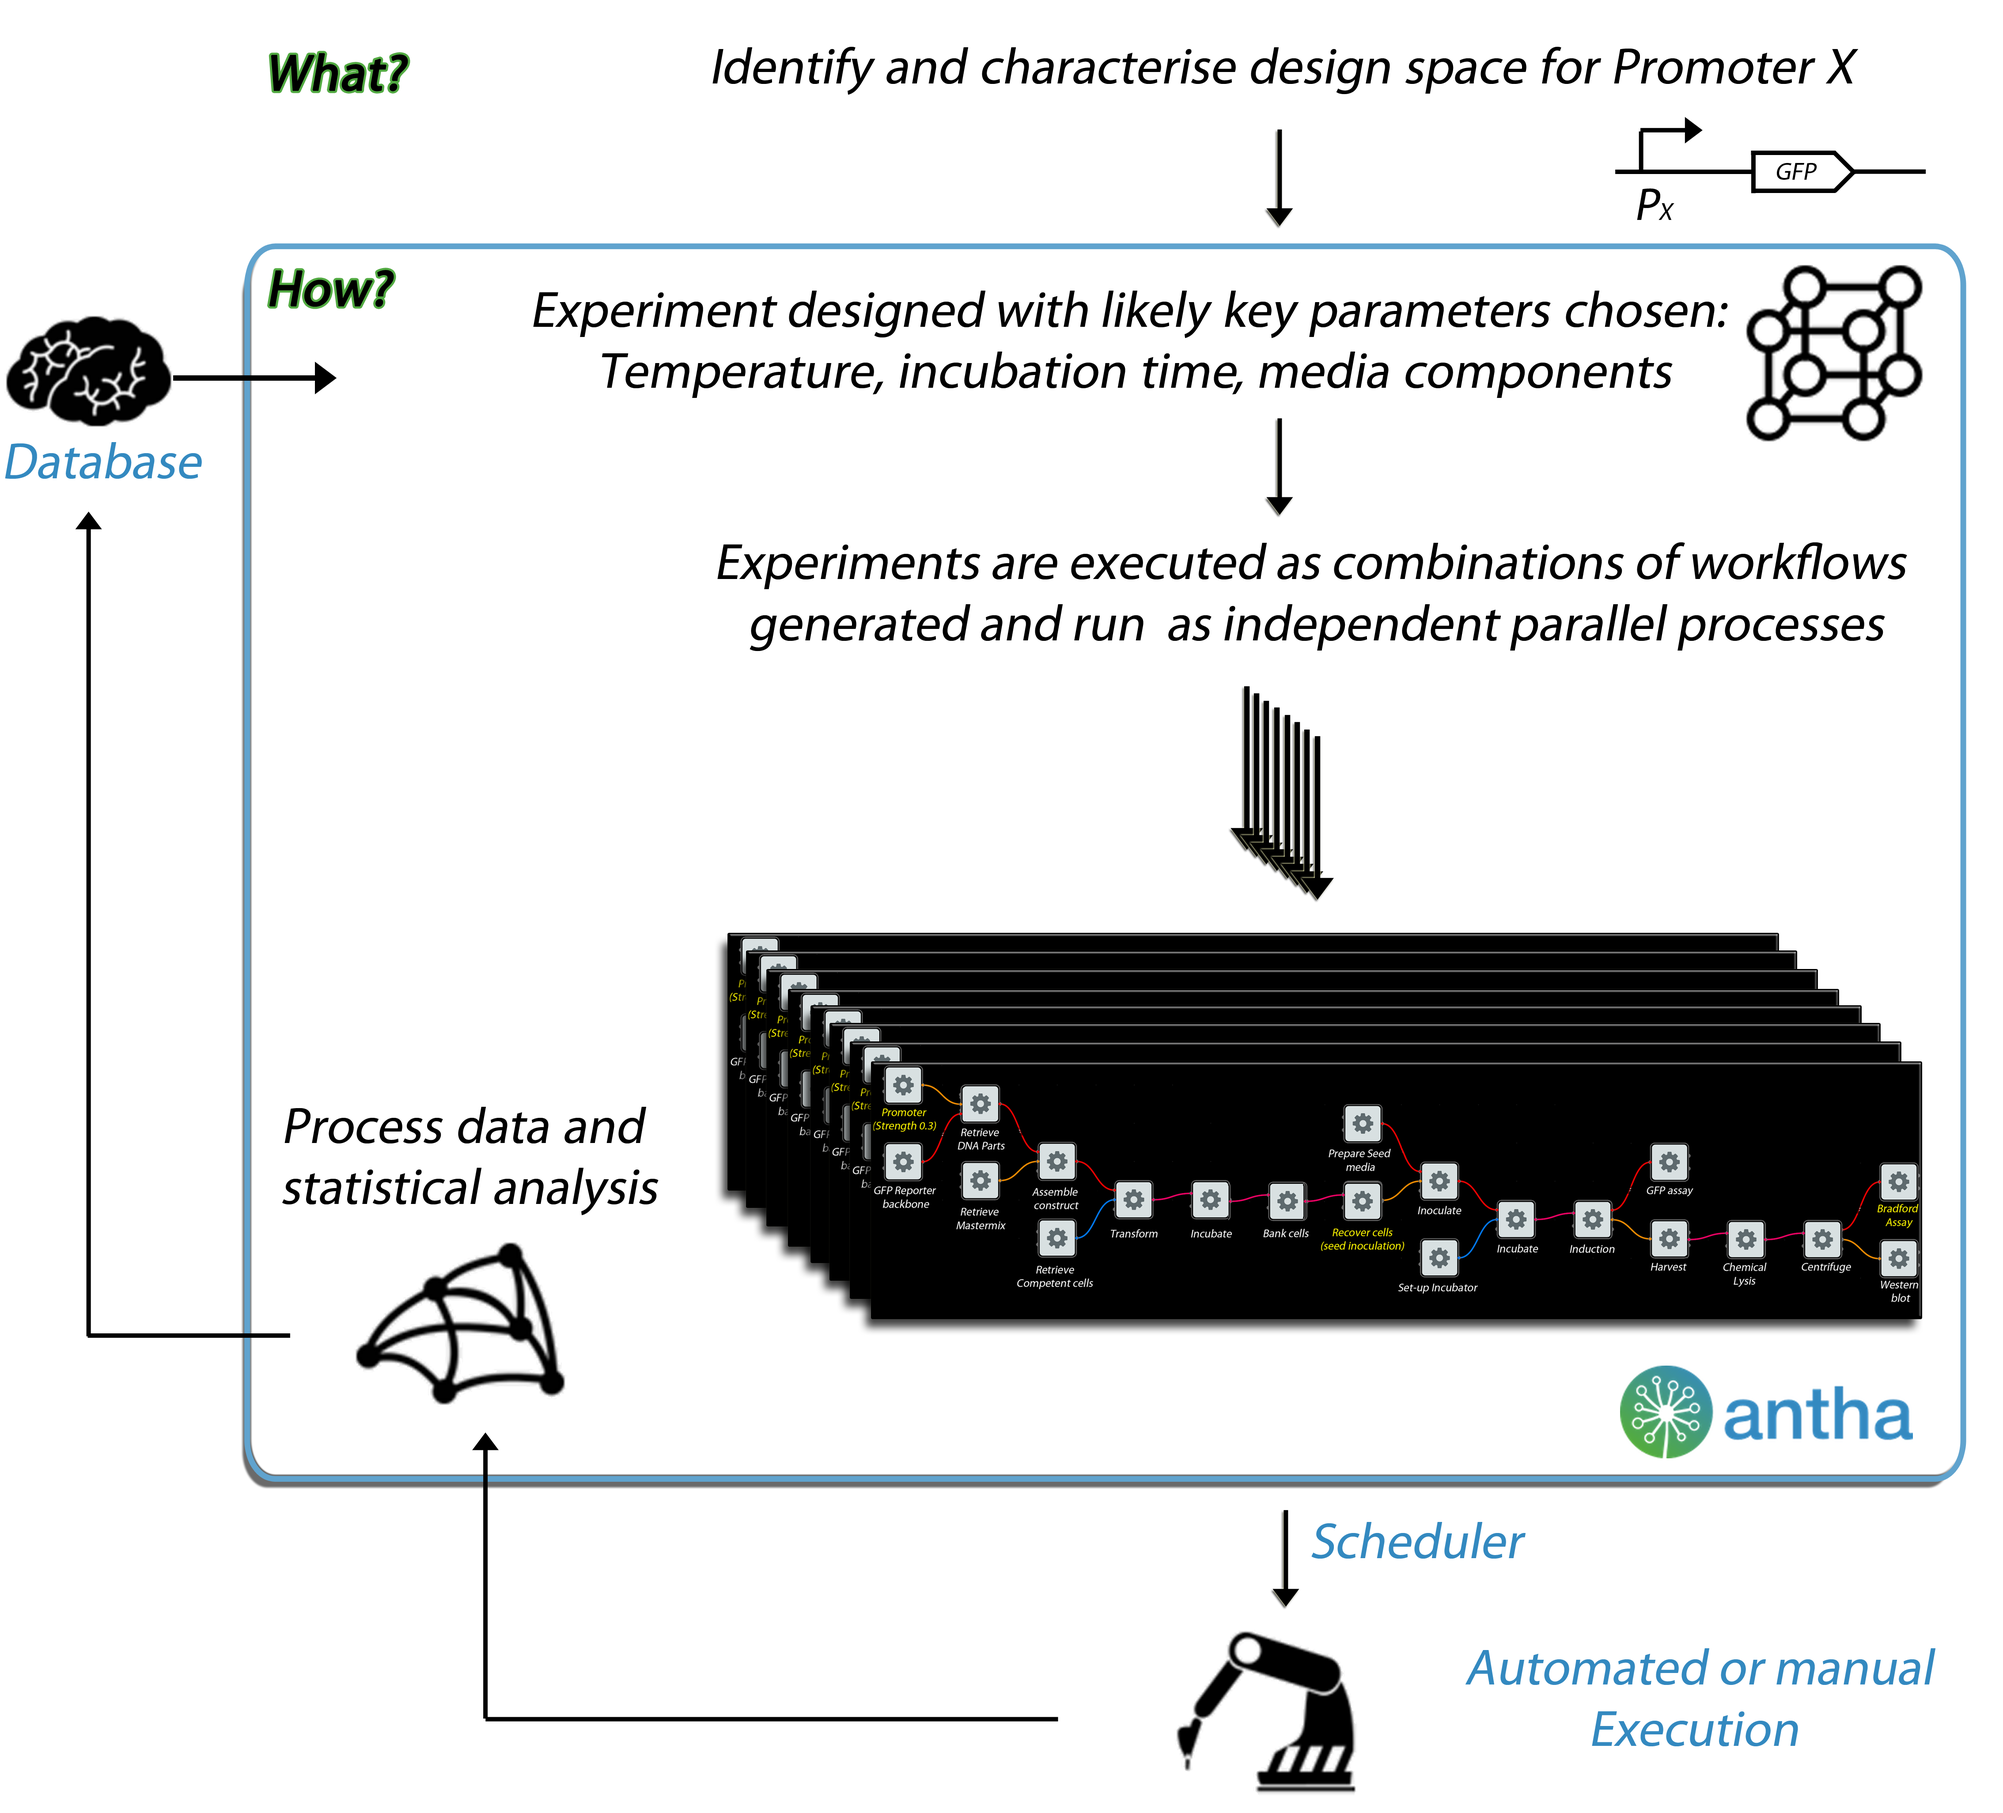
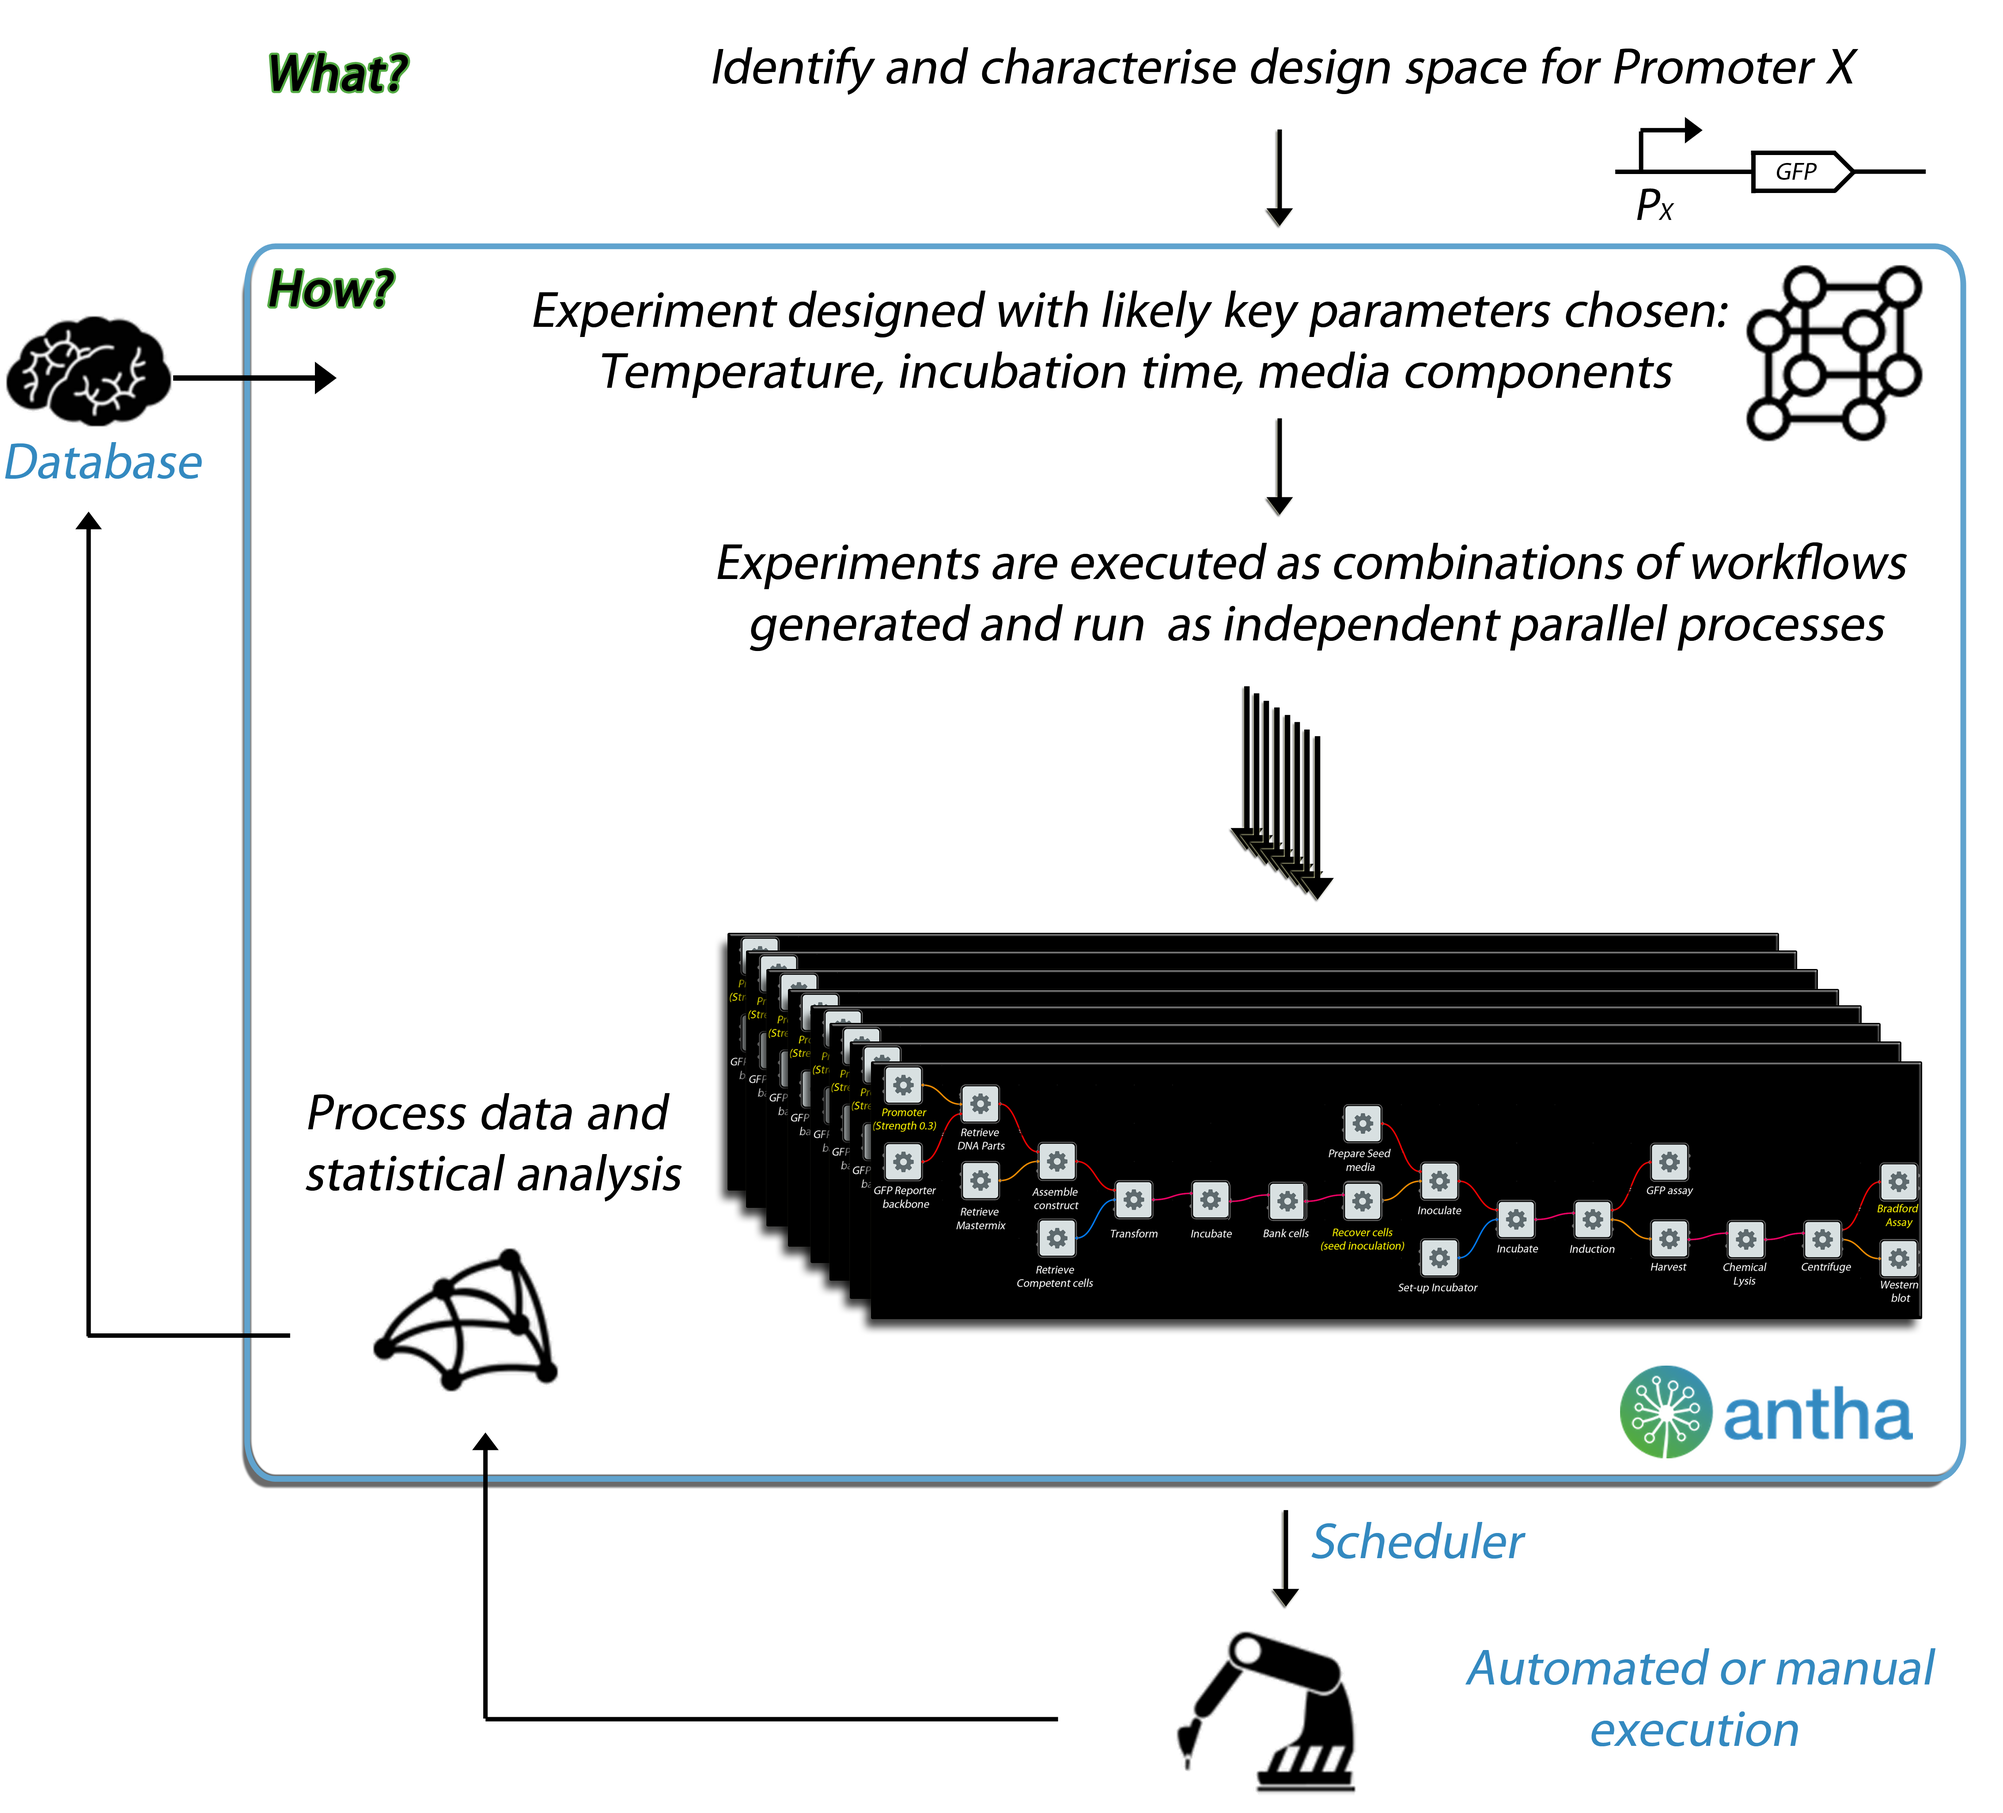
Minor wording updates

Changed region(s): [[0.1555, 0.5924, 0.342, 0.7795], [0.7773, 0.9354, 0.8084, 0.9666]]

diff --git a/docs/concepts/characterization.md b/docs/concepts/characterization.md
@@ -26,7 +26,7 @@ In recent years, Validation in Pharma has moved from a model of “find a way th
 
 ### Definition 
 
-“QbD became the answer to assisting both the industry and FDA to move toward a more scientific, risk-based, holistic and proactive approach to pharmaceutical development. The concept promotes industry's understanding of the product and manufacturing process starting with product development, basically building quality in, not testing it. Under the concept of QbD, when designing and developing a product, a company needs to define desired product performance and identify CQAs. On the basis of this information, the company then designs the product formulation and process to meet those product attributes. This leads to understanding the impact of raw material attributes and process parameters on the CQAs and identification and control of sources of variability. As a result of all this knowledge, a company can continually monitor and update its manufacturing process to assure consistent product quality. This systematic approach to product development and manufacturing varies a great deal from the traditional approach, which was extremely empirical.” ([Quality by design for biopharmaceuticals](http://www.nature.com/nbt/journal/v27/n1/full/nbt0109-26.html), Anurag S Rathore & Helen Winkle)
+“Quality by design (QbD) became the answer to assisting both the industry and Food and drugs administration (FDA) to move toward a more scientific, risk-based, holistic and proactive approach to pharmaceutical development. The concept promotes industry's understanding of the product and manufacturing process starting with product development, basically building quality in, not testing it. Under the concept of QbD, when designing and developing a product, a company needs to define desired product performance and identify critical quality attributes (CQAs). On the basis of this information, the company then designs the product formulation and process to meet those product attributes. This leads to understanding the impact of raw material attributes and process parameters on the CQAs and identification and control of sources of variability. As a result of all this knowledge, a company can continually monitor and update its manufacturing process to assure consistent product quality. This systematic approach to product development and manufacturing varies a great deal from the traditional approach, which was extremely empirical.” ([Quality by design for biopharmaceuticals](http://www.nature.com/nbt/journal/v27/n1/full/nbt0109-26.html), Anurag S Rathore & Helen Winkle)
 
 ### QbD implementaion
 

diff --git a/resources/faq.md b/resources/faq.md
@@ -14,16 +14,13 @@ title: FAQ
 
 ## {{site.project_title}}
 
-### Why should I care about this project? {#why}
+### Why is this project important? {#why}
 
 {{site.project_title}} is the first high level language designed to enable robust, reproducible and composible work in the biosciences. {{site.project_title}} is designed to take away much of the detail of experimental planning, allowing biologists to focus on what they want to do, not how to do it.  This allows researchers to think about the biology of their system, and successfully carry out ever more complex and illuminating experiments.
 
 ### Why do we need a high level language for doing biology? {#why}
 
 A high level language enables ease of design, better reproducibility and scalability. Lack of reproducibility is still a major barrier to progress in the biosciences (an [article](http://www.nature.com/nature/journal/v483/n7391/full/483531a.html) from Amgen reports that they could reproduce findings in only 11% of 53 published papers). 
-
-### Why is this only being done now? 
-The will to improve reproducibility is not new. In recent years efforts have been made to abstract the layers of biological complexity and to standardize by breaking down biological components into repositories of well-characterised standardized parts which can be combined to form more complex devices. The biobrick registry at iGEM is a good example of this. This is a move in the right direction but the problem is far from fully solved since biology is not that simple and often it's not possible to standardise parts.
 
 ### Why is this only being done now?
 The will to improve reproducibility is not new. In recent years efforts have been made to abstract the layers of biological complexity and to standardize by breaking down biological components into repositories of well-characterised standardized parts which can be combined to form more complex devices. The biobrick registry at iGEM is a good example of this. This is a move in the right direction but the problem is far from fully solved since biology is not that simple and often it's not straightforward standardise parts.

diff --git a/docs/intro.md b/docs/intro.md
@@ -52,7 +52,7 @@ Experiments can then be generated from bundling workflows together. Potentially 
 
 ## Quality built-in ##
 
-Antha is an end-to-end fully integrated language with quality control built in to its DNA. As well as a language for experimental design, execution and data processing, it’s a LIMs system, data-management system and QA system, yet simple and fun to use. The language is designed to effortlessly incorporate quality standards such as quality by design and GMP level quality standards without the overhead for the user. This means enhanced traceability, reproducibility and simplicity for the user.
+Antha is an end-to-end fully integrated language with quality control built in to its DNA. As well as a language for experimental design, execution and data processing, it’s a LIMs system, data-management system and QA system, yet simple and fun to use. The language is designed to support effortless incorporation of quality standards such as [quality by design](/docs/concepts/characterization.html) and GLP level quality standards without the overhead for the user. This means enhanced traceability, reproducibility and simplicity for the user.
 
 There are many factors which can affect an experiment which typically wouldn't be recorded. With the example of a simple step such as recovering a frozen cell stock and incubating there are many factors which might effect the reproducibility and quality of the procedure which could have a knock on effect in subsequent processes. Normally it would be very laborious to capture all of these variables but Antha aims to capture as many of them as possible automatically. 
 <img src="/images/Antha_seedelement_sourcesofvariability.png" alt="sources of variability" width="500" height="500">

diff --git a/docs/implement/devices.md b/docs/implement/devices.md
@@ -17,4 +17,4 @@ Laboratory automation doesn’t always go smoothly and if not designed well one 
 
 ## Sensing, barcodes and mobile device app support
 
-Typically scientific laboratory solutions are expensive but often existing apps and features of the smart phones we all have could perform tasks just as well, potentially for a fraction of the cost. Antha will support interaction with such systems to make performing the experiments and adhering to high quality standards as easy for the user as possible. This might include smartphone apps to conveniently read reagent barcodes which will automatically track the exact batch details of items used so you don’t have to waste time transcribing or leaving out the all important details which are needed to capture issues such as batch to batch variation; a very real issue which has long been known to big pharma.
+Typically scientific laboratory solutions are expensive but often existing apps and features of the smart phones we all have could perform tasks just as well, potentially for a fraction of the cost. Antha will support interaction with such systems to make performing the experiments and adhering to high quality standards as easy for the user as possible. This might include smartphone apps to conveniently read reagent barcodes which will automatically track the exact batch details of items used. Meaning the user doesn’t have to waste time transcribing or leaving out the all important details which are needed to capture issues such as batch to batch variation; a very real issue which has long been known to big pharma.

diff --git a/docs/concepts/concurrency.md b/docs/concepts/concurrency.md
@@ -32,5 +32,5 @@ Concurrency + communication = more efficient processes.
 Communication enables the ability to coordinate those independent pieces for optimal efficiency, not necessarily doing things at the same time. This concept is not [new](https://assets.cs.ncl.ac.uk/seminars/224.pdf) but Google’s Go language has this capacity built-in making building qnd debugging concurrent workflows easier.
 
 ## Concurrency with Antha
-Antha will bring the concept of concurrency into managing physical lab operations and processes with limited resources as well as computational tasks such as processing sequencing data or metabolite profiling. 
+Antha will bring the concept of concurrency into managing physical lab operations and processes with limited resources as well as computational tasks such as processing DNA sequencing data or metabolite profiling. 
 In the computational sphere this can mean large operations are performed in seconds rather than minutes; in the physical world of carrying out lab work, where timescales are longer, the time saving could be substantial; especially as more ambitious experimental plans are enabled.
